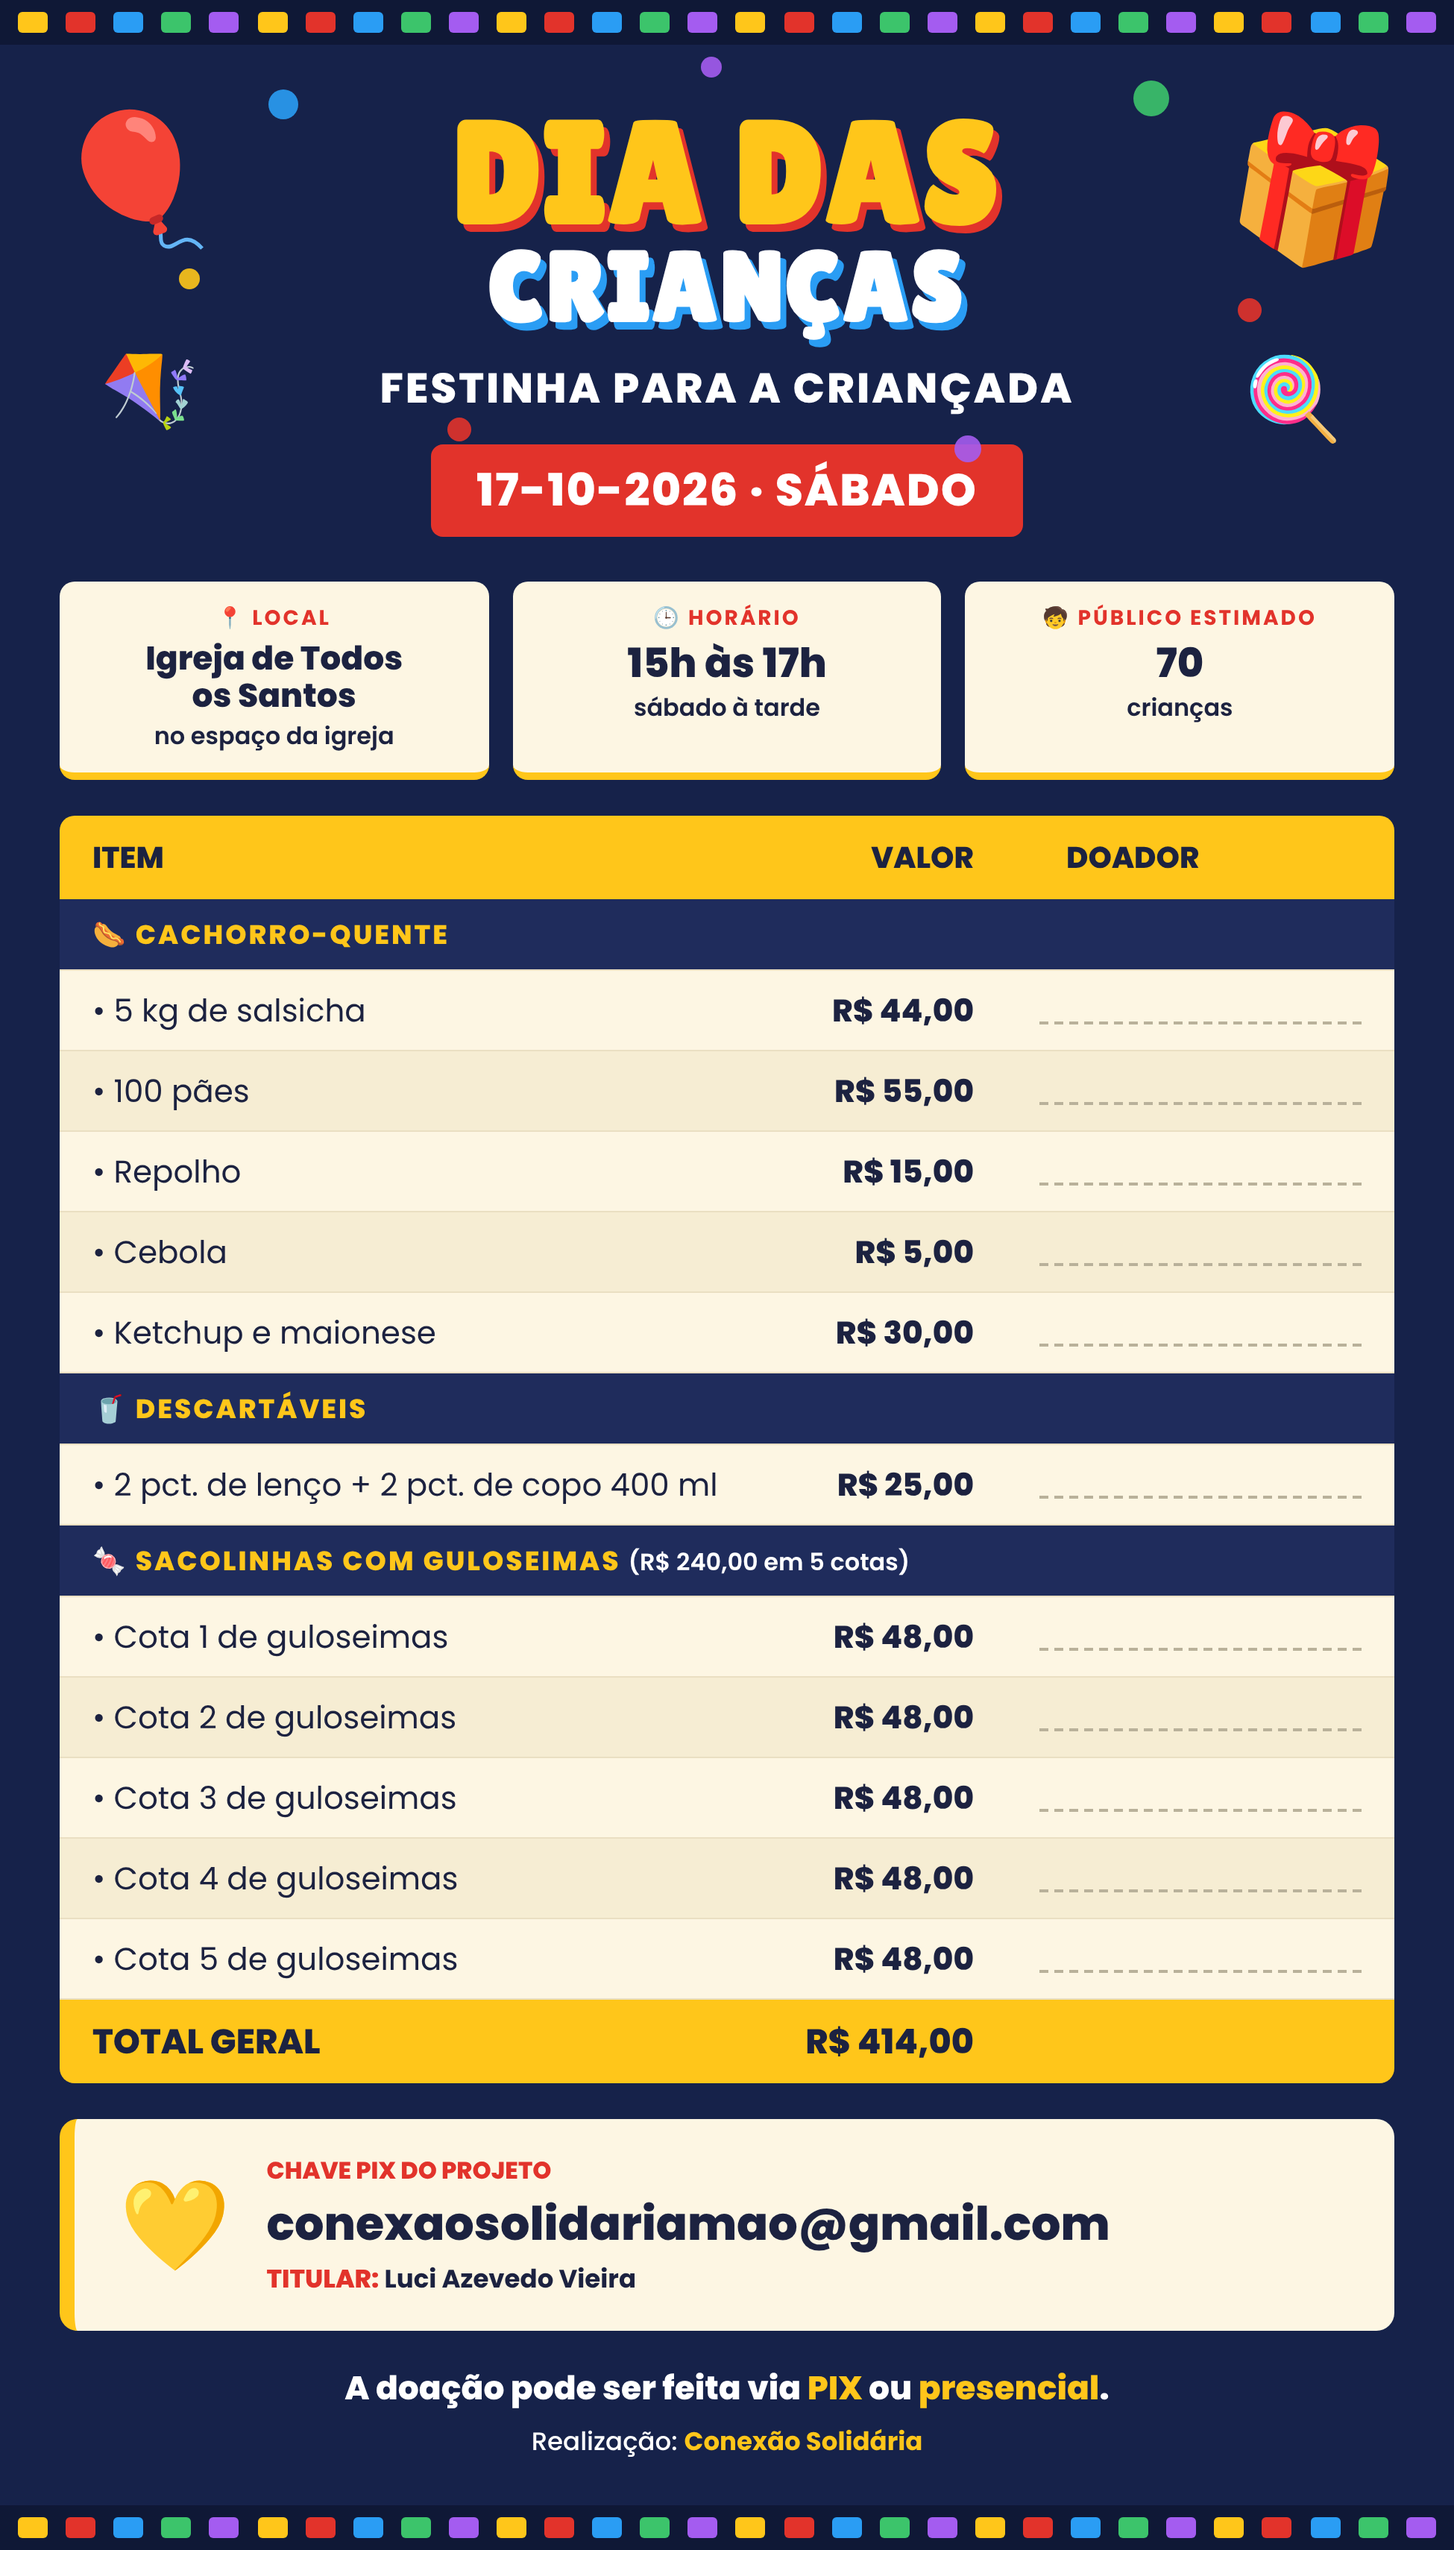
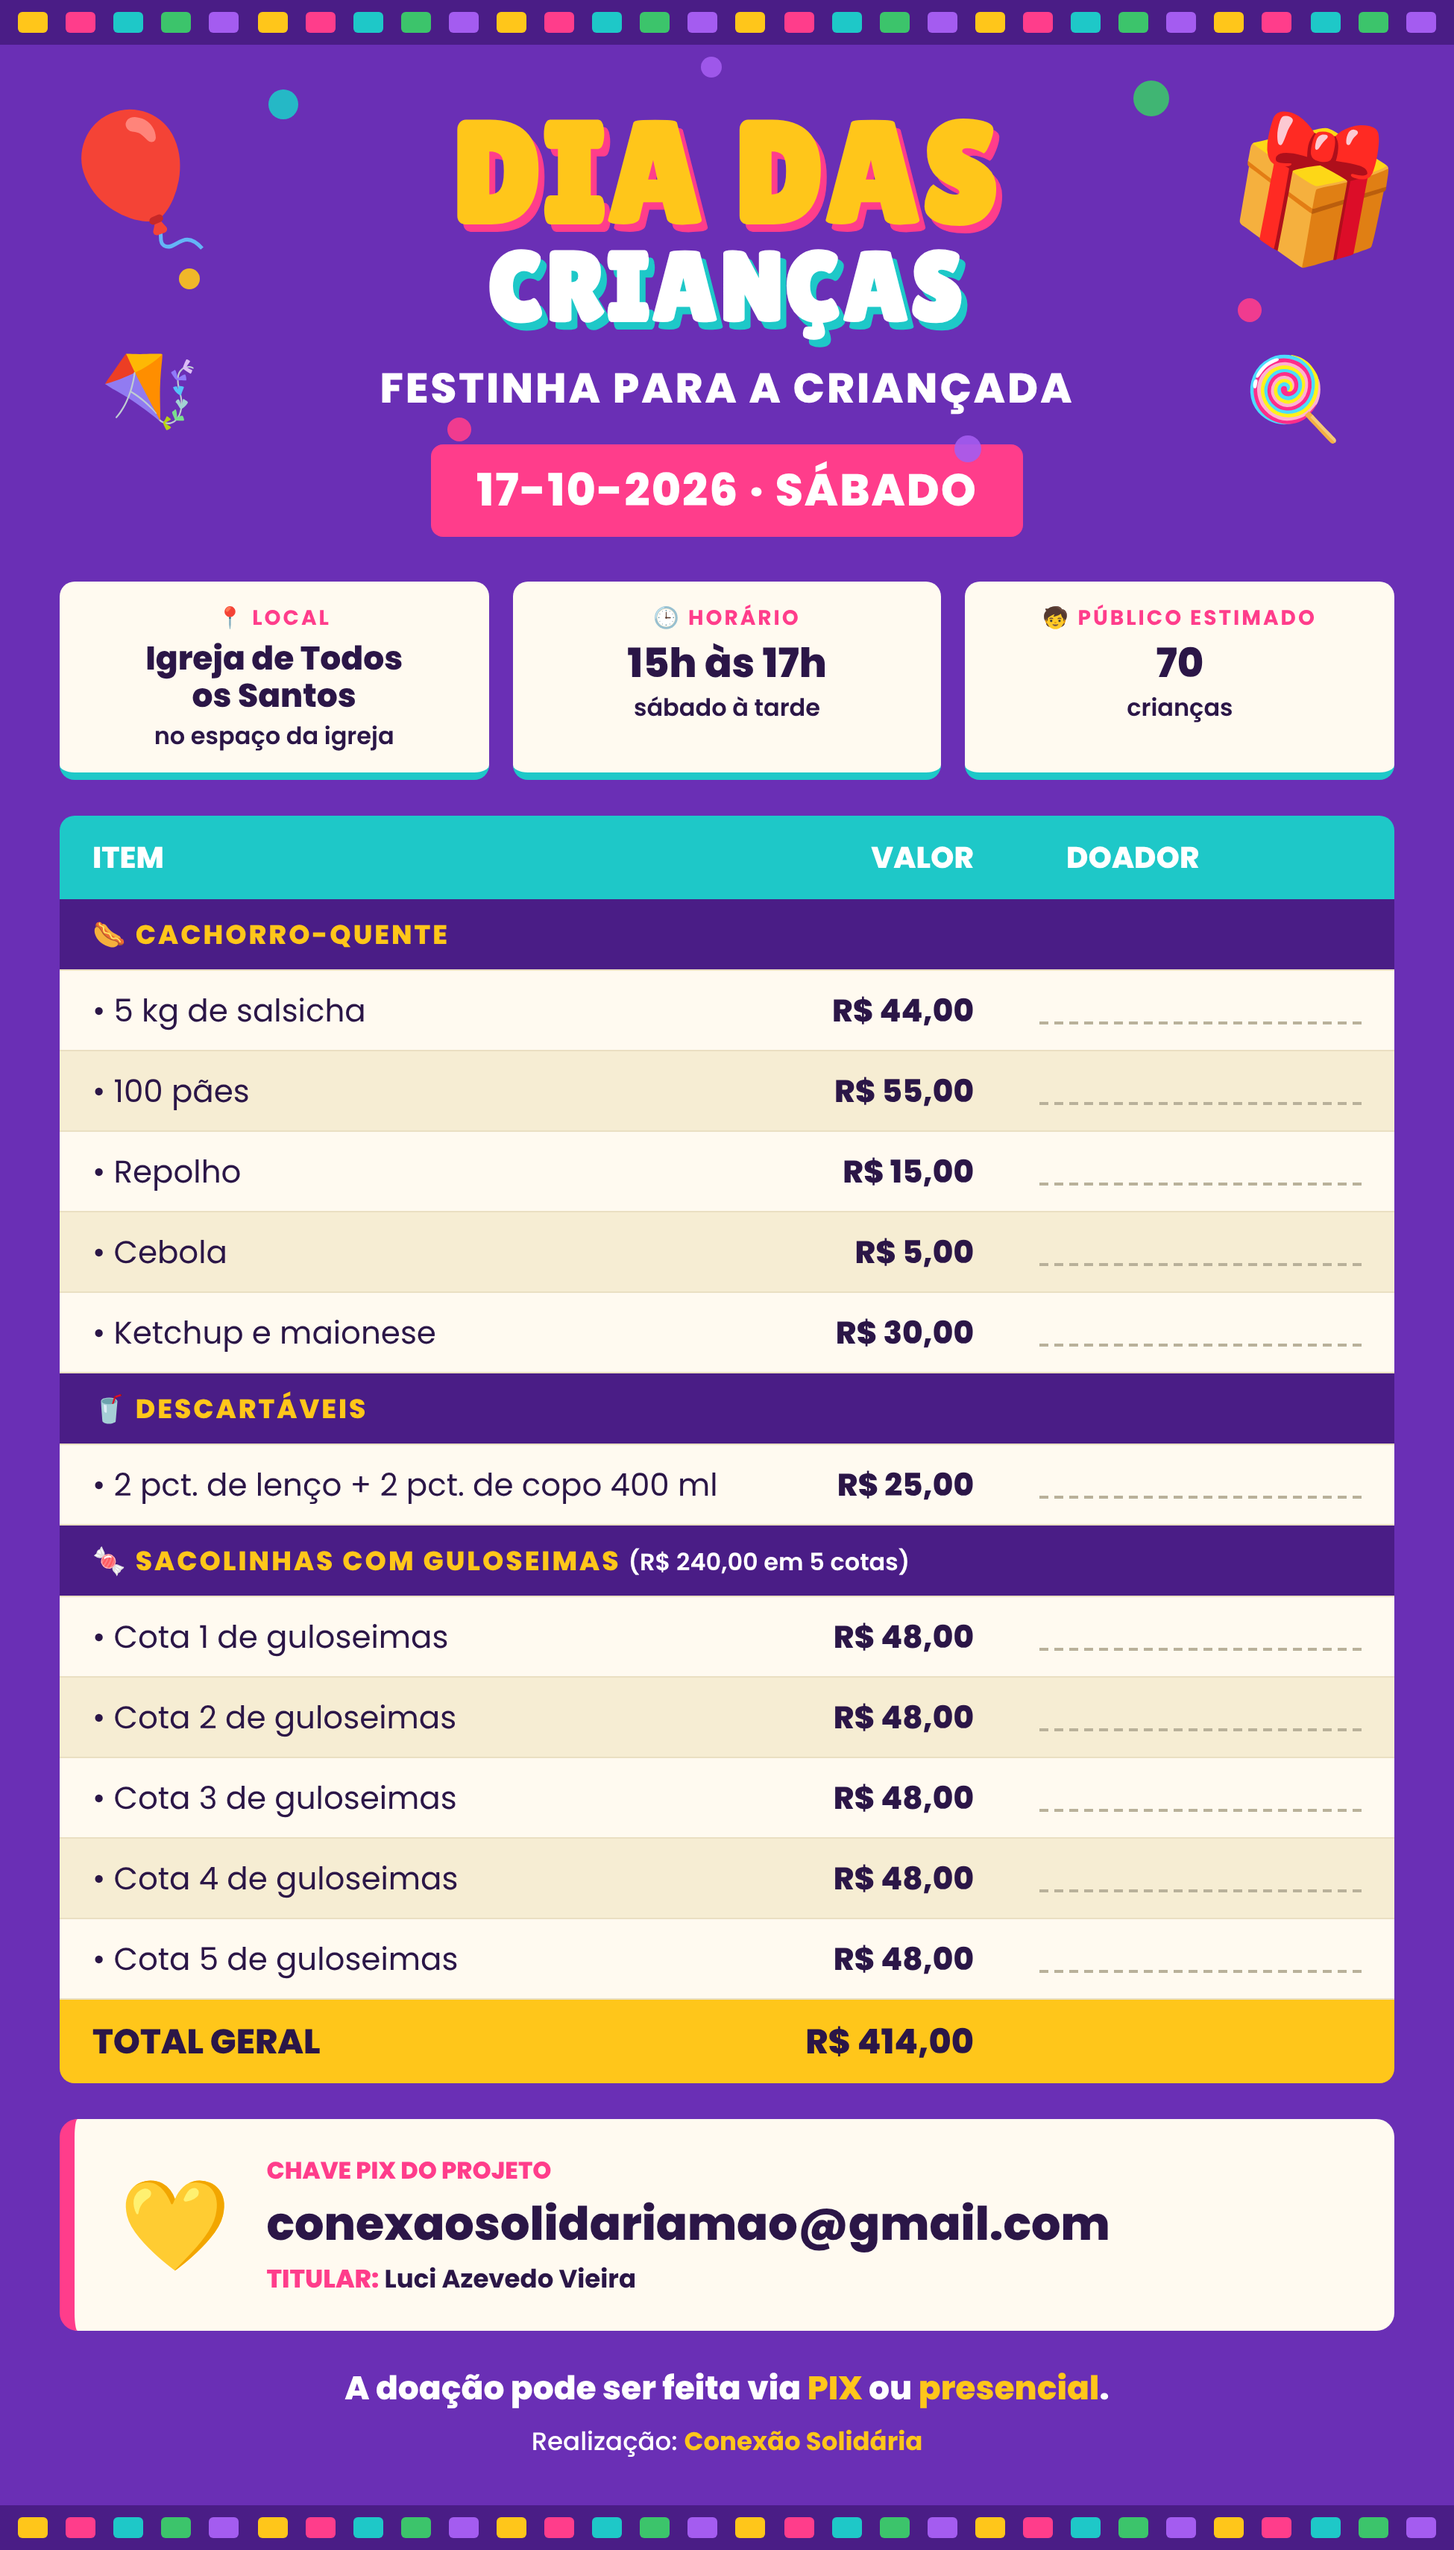
Recolor Dia das Crianças flyer to purple, pink and turquoise
Claude-Session: https://claude.ai/code/session_01Pww1chsFq3uBLagk6K1BpQ

diff --git a/arte-dia-das-criancas/arte.html b/arte-dia-das-criancas/arte.html
@@ -2,38 +2,38 @@
 <link href="https://fonts.googleapis.com/css2?family=Lilita+One&family=Poppins:wght@400;500;600;700;800&family=Noto+Color+Emoji&display=block" rel="stylesheet">
 <style>
 *{box-sizing:border-box;margin:0;padding:0}
-body{width:975px;background:#16224a;font-family:Poppins,'Noto Color Emoji',sans-serif;color:#1c2240}
+body{width:975px;background:#6a2fb5;font-family:Poppins,'Noto Color Emoji',sans-serif;color:#2b1647}
 .emo{font-family:'Noto Color Emoji'}
 .wrap{position:relative;padding:34px 40px 30px;overflow:hidden}
-.border{height:30px;background:#0f1836;display:flex;justify-content:space-around;align-items:center;padding:0 6px}
+.border{height:30px;background:#4a1d86;display:flex;justify-content:space-around;align-items:center;padding:0 6px}
 .border span{width:20px;height:14px;border-radius:3px}
 .conf{position:absolute;border-radius:50%;opacity:.9}
-h1{font-family:'Lilita One';text-align:center;line-height:.95;font-size:96px;color:#ffc61a;letter-spacing:2px;text-shadow:4px 5px 0 #e2332b;margin-top:6px}
-h1 small{display:block;font-size:66px;color:#fff;text-shadow:4px 5px 0 #2a9df4}
+h1{font-family:'Lilita One';text-align:center;line-height:.95;font-size:96px;color:#ffc61a;letter-spacing:2px;text-shadow:4px 5px 0 #ff3d8b;margin-top:6px}
+h1 small{display:block;font-size:66px;color:#fff;text-shadow:4px 5px 0 #1ec8c8}
 .sub{text-align:center;color:#fff;font-weight:800;font-size:28px;letter-spacing:1.5px;margin-top:16px}
-.date{display:table;margin:16px auto 0;background:#e2332b;color:#fff;font-weight:800;font-size:30px;padding:8px 30px;border-radius:8px;letter-spacing:1px}
+.date{display:table;margin:16px auto 0;background:#ff3d8b;color:#fff;font-weight:800;font-size:30px;padding:8px 30px;border-radius:8px;letter-spacing:1px}
 .deco{position:absolute;font-size:92px}
 .cards{display:flex;gap:16px;margin-top:30px}
-.card{flex:1;background:#fdf6e3;border-radius:10px;border-bottom:5px solid #ffc61a;text-align:center;padding:14px 10px 12px}
-.card .lb{color:#e2332b;font-weight:700;font-size:14px;letter-spacing:1.5px}
+.card{flex:1;background:#fffaf0;border-radius:10px;border-bottom:5px solid #1ec8c8;text-align:center;padding:14px 10px 12px}
+.card .lb{color:#ff3d8b;font-weight:700;font-size:14px;letter-spacing:1.5px}
 .card .v{font-weight:800;font-size:27px;line-height:1.15;margin-top:4px}
 .card .s{font-weight:600;font-size:16px;margin-top:2px}
 table{width:100%;border-collapse:collapse;margin-top:24px;border-radius:10px;overflow:hidden;font-size:21px}
-th{background:#ffc61a;text-align:left;padding:13px 22px;font-weight:800;font-size:20px}
+th{background:#1ec8c8;color:#fff;text-align:left;padding:13px 22px;font-weight:800;font-size:20px}
 th.r{text-align:right}
-td{padding:11px 22px;background:#fdf6e3;border-bottom:1px solid #eadfc2}
+td{padding:11px 22px;background:#fffaf0;border-bottom:1px solid #eadfc2}
 tr:nth-child(even) td{background:#f6edd3}
 td.val{text-align:right;font-weight:800;white-space:nowrap;width:170px}
 td.don{width:260px}
 td.don div{border-bottom:2px dashed #b9b19a;height:18px}
-tr.sec td{background:#1f2c5c !important;color:#ffc61a;font-weight:800;font-size:18px;letter-spacing:1.5px;padding:10px 22px}
+tr.sec td{background:#4a1d86 !important;color:#ffc61a;font-weight:800;font-size:18px;letter-spacing:1.5px;padding:10px 22px}
 tr.sec td em{font-style:normal;color:#fff;font-weight:600;letter-spacing:0;font-size:16px}
 tr.tot td{background:#ffc61a !important;font-weight:800;font-size:23px;border:0}
-.pix{margin-top:24px;background:#fdf6e3;border-radius:12px;border-left:10px solid #ffc61a;display:flex;align-items:center;gap:24px;padding:22px 30px}
+.pix{margin-top:24px;background:#fffaf0;border-radius:12px;border-left:10px solid #ff3d8b;display:flex;align-items:center;gap:24px;padding:22px 30px}
 .pix .h{font-size:60px}
-.pix .lb{color:#e2332b;font-weight:800;font-size:16px}
+.pix .lb{color:#ff3d8b;font-weight:800;font-size:16px}
 .pix .k{font-weight:800;font-size:31px}
-.pix .t{font-size:17px;font-weight:700}.pix .t b{color:#e2332b}
+.pix .t{font-size:17px;font-weight:700}.pix .t b{color:#ff3d8b}
 .foot{text-align:center;color:#fff;margin-top:22px}
 .foot .a{font-weight:800;font-size:22px}
 .foot .a b,.foot .r b{color:#ffc61a}
@@ -76,8 +76,8 @@ tr.tot td{background:#ffc61a !important;font-weight:800;font-size:23px;border:0}
 </div>
 <div class="border" id="b2"></div>
 <script>
-const cols=['#ffc61a','#e2332b','#2a9df4','#3cc46b','#a45cf0'];
+const cols=['#ffc61a','#ff3d8b','#1ec8c8','#3cc46b','#a45cf0'];
 for(const id of ['b1','b2']){const b=document.getElementById(id);for(let i=0;i<30;i++){const s=document.createElement('span');s.style.background=cols[i%5];b.appendChild(s)}}
 const w=document.querySelector('.wrap');
-[[180,30,10,'#2a9df4'],[760,24,12,'#3cc46b'],[300,250,8,'#e2332b'],[640,262,9,'#a45cf0'],[120,150,7,'#ffc61a'],[830,170,8,'#e2332b'],[470,8,7,'#a45cf0']].forEach(([x,y,r,c])=>{const d=document.createElement('div');d.className='conf';Object.assign(d.style,{left:x+'px',top:y+'px',width:r*2+'px',height:r*2+'px',background:c});w.prepend(d)});
+[[180,30,10,'#1ec8c8'],[760,24,12,'#3cc46b'],[300,250,8,'#ff3d8b'],[640,262,9,'#a45cf0'],[120,150,7,'#ffc61a'],[830,170,8,'#ff3d8b'],[470,8,7,'#a45cf0']].forEach(([x,y,r,c])=>{const d=document.createElement('div');d.className='conf';Object.assign(d.style,{left:x+'px',top:y+'px',width:r*2+'px',height:r*2+'px',background:c});w.prepend(d)});
 </script></body></html>
